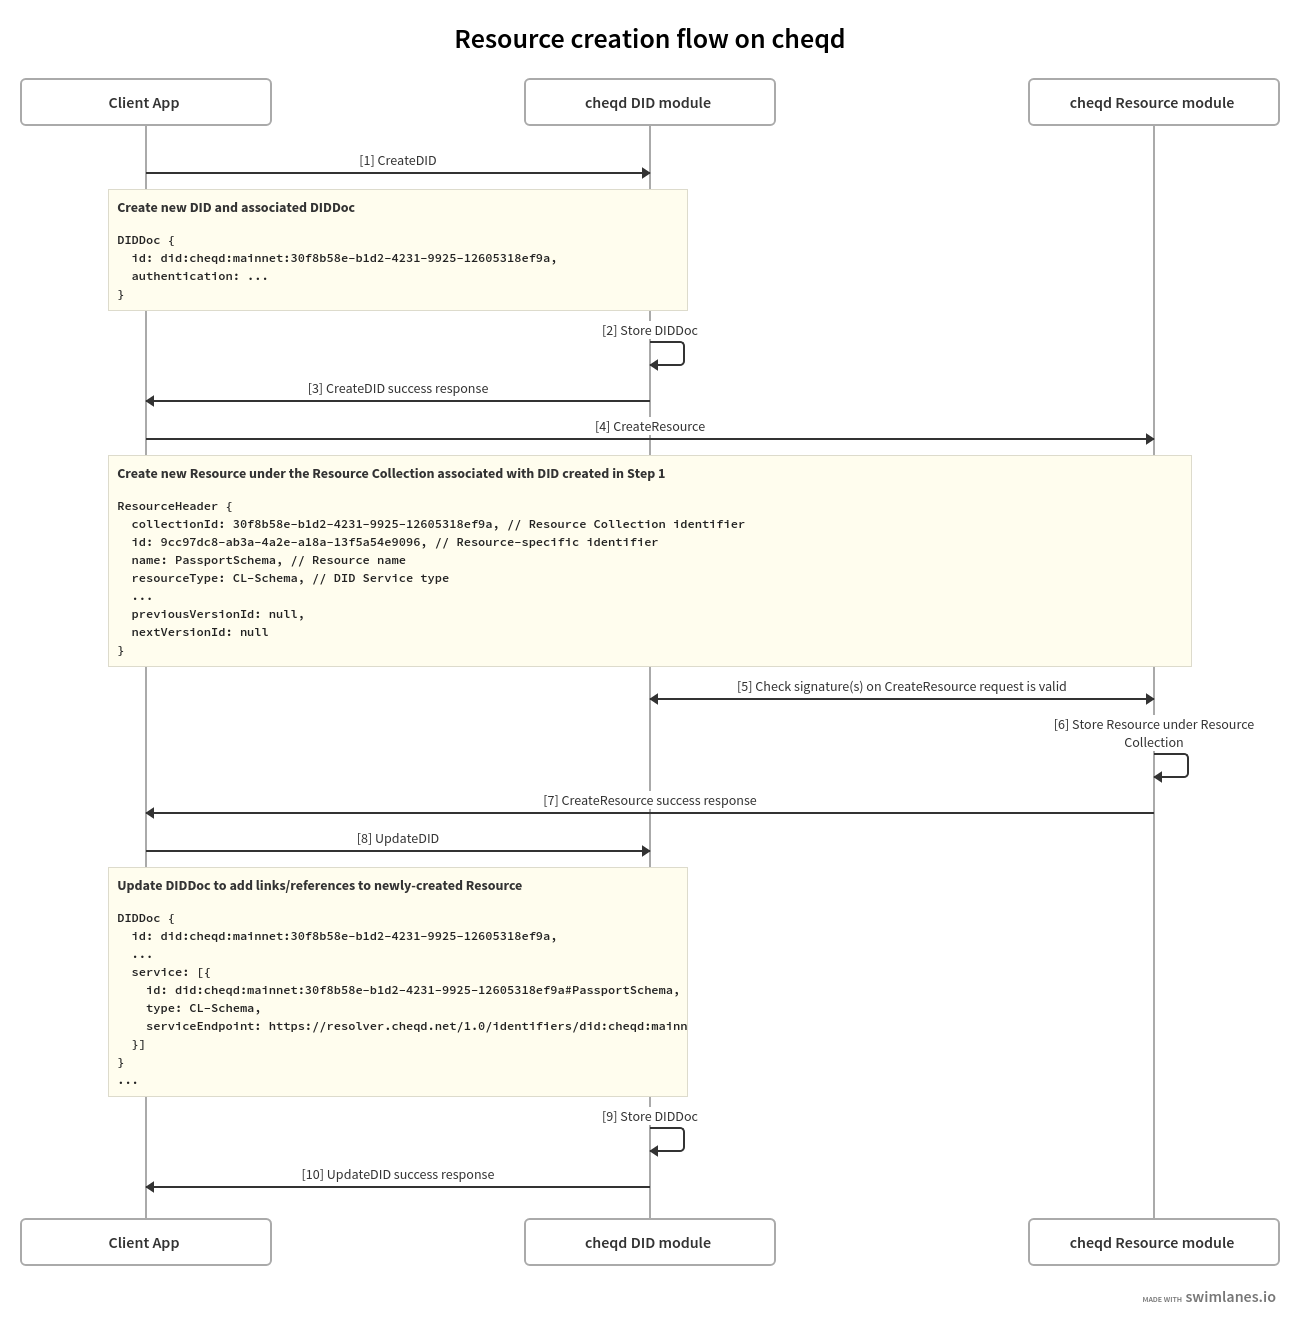
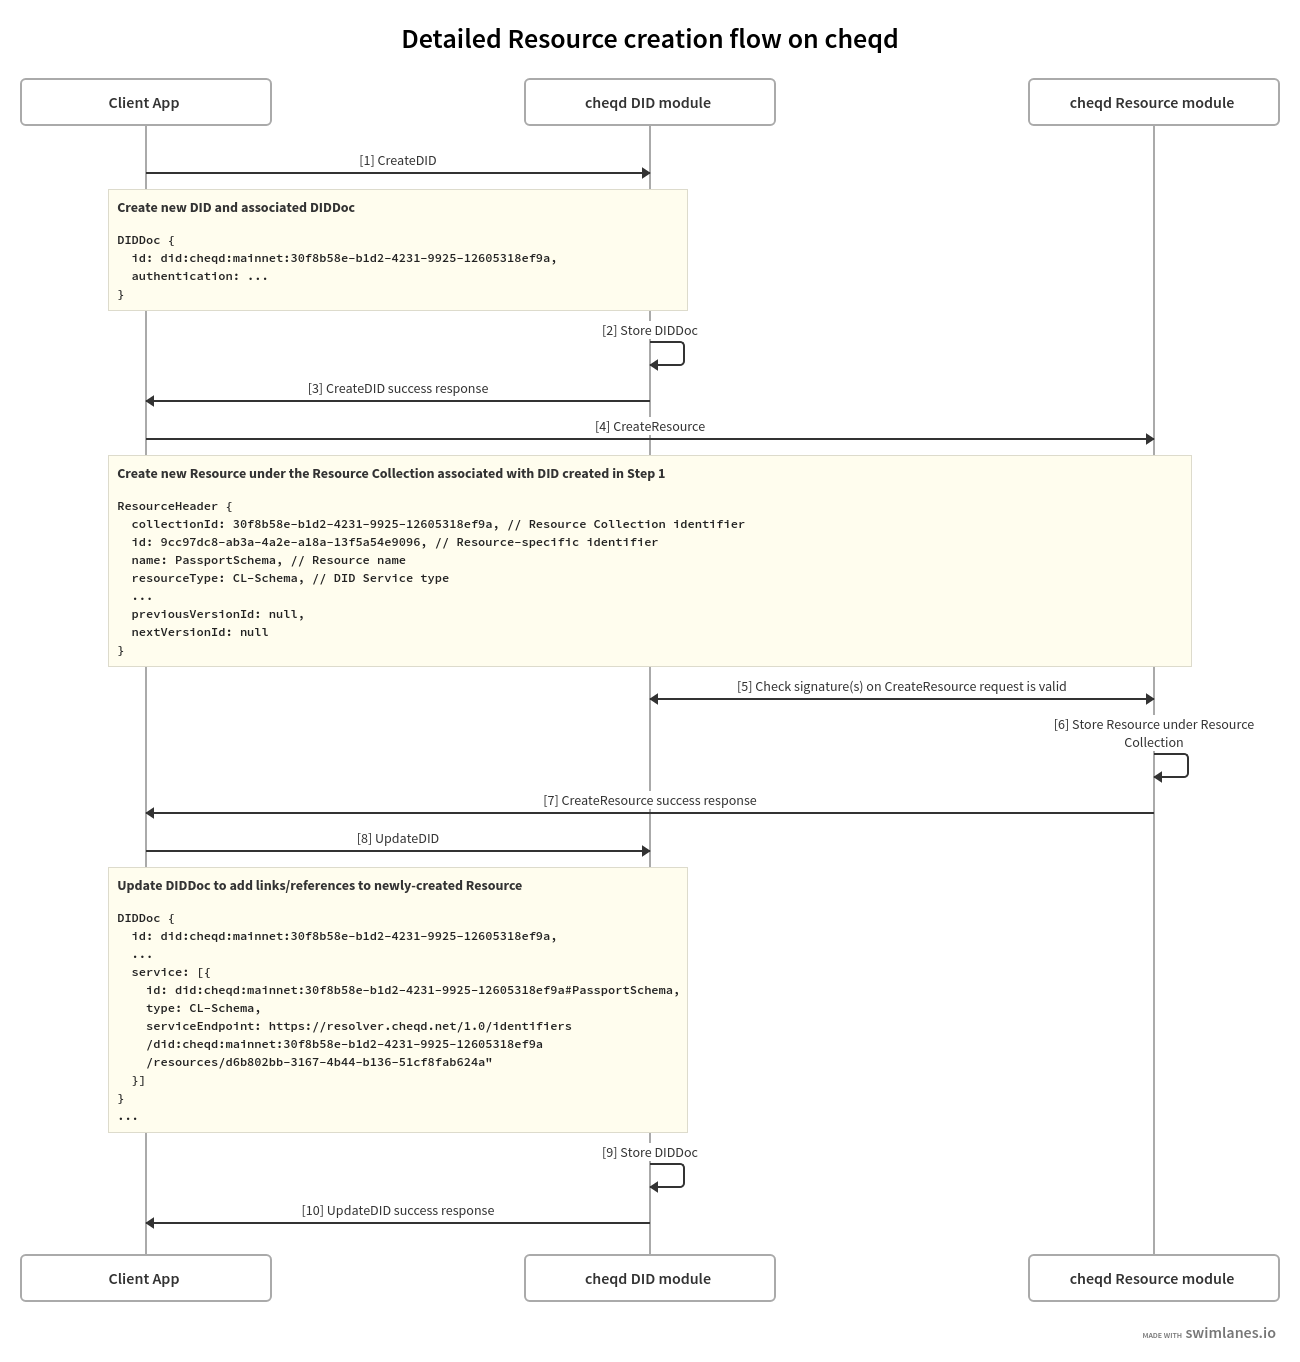
Switched diagrams to Swimlanes.io versions

diff --git a/architecture/adr-list/adr-008-ledger-resources.md b/architecture/adr-list/adr-008-ledger-resources.md
@@ -98,15 +98,17 @@ We took the following design principles into consideration, along with an explan
 Resources on cheqd ledger are collated under *Resource Collections*, which is defined as a list of resources linked to and controlled using a DID Document ("DIDDoc").
 
 ![Simplified on-ledger Resource creation flow on cheqd network](../../.gitbook/assets/adr008-resource-flow-simplified.png)
-*Figure 4: Overview of Resource and Resource Collection creation (editable version on Swimlanes.io)*
+*Figure 4: Overview of Resource and Resource Collection creation ([editable version](https://swimlanes.io/u/UhhnSPK69?rev=4))*
 
 To create a new Resource, a client application first needs to create a DID (or use an existing DID) along with its associated DIDDoc. This *resource-linked DID* is the lowest, direct level of create/update/deactivate operation control that exists.
 
-Individual Resources are uniquely identified by a common *Resource Name* that is meant to remain consistent across versions.
+Individual Resources are uniquely identified by a common *Resource Name* that is meant to remain consistent across versions. The specific *version number* of a Resource is described using the *Resource ID*, which is a [Universally-Unique Identifier (UUID)](https://en.wikipedia.org/wiki/Universally_unique_identifier). Since UUIDs can be generated by *any* compatible software library, client applications are able to define this version number independent of the cheqd ledger. (This same technique and rationale is described in [ADR-002: cheqd DID method](adr-002-cheqd-did-method.md)).
+
+This allows a *specific* Resource version to be referenced in a Verifiable Credential, as well as allowing client applications to query historical/updated Resource versions along with metadata that describes how the Resource evolved within a Resource Collection.
 
 ### Discoverability via DIDDoc Services
 
-Once a Resource has been created under a Resource Collection, the DIDDoc can be updated to provide a link to access it.
+Once a Resource has been created under a Resource Collection, the linked DIDDoc can be updated to provide a link to access it.
 
 Instead of creating a new top-level section within a DIDDoc (theoretically allowed under the W3C DID Core specification), we chose to use the *Services* section to define Resource links.
 
@@ -115,24 +117,23 @@ The rationale for linking to Resources in this manner, instead of creating a new
 1. Client applications capable of doing [DID Resolution](https://w3c.github.io/did-core/#resolution) may have strong architectural assumptions to *only* expect the default DID Core specification sections in a response. We considered the possibility that such applications might (incorrectly) reject the entire DIDDoc as malformed, or crash in the process of trying to parse the DIDDoc.
 2. On the other hand, [the *Services* section in a DIDDoc](https://w3c.github.io/did-core/#services) is designed to be flexible and extensible by design. New DID Service types can be registered through [DID Specification Registries](https://www.w3.org/TR/did-spec-registries/) by anyone.
 3. In practice, we noted that client applications capable of DID Resolution will gracefully fail/ignore unknown Service types. Client applications that *do* understand a particular Service type can continue parsing/resolving content they are designed to handle.
-4. 8. **Linked Resources through DIDDoc de-referencing**: DIDDocs can reference other DIDDocs, such as when the [DID Controller](https://w3c.github.io/did-core/#did-controller) in one DIDDoc is specified as a [Verification Method](https://w3c.github.io/did-core/#verification-methods) in another DIDDoc. These links can be traversed using [DID URL dereferencing](https://w3c-ccg.github.io/did-resolution/#dereferencing).
-   1. Extending this idea, Resources linked to multiple Resource Collections (with different DID unique identifiers) can be referenced from one or more DIDDocs. For example, the same Schema can be re-used 
-9. **Version control**: Historical versions of Resources can always be accessed by traversing forwards/backwards in the Resource Collection.
-10. **Multi-party control on Resource Collection updates**: DIDDocs can have multiple controllers specified in them. In the normal process of updating a DIDDoc with multiple controllers, rules can be defined by client applications and/or the ledger on whether all controllers sign an update, or whether an *m-of-n* threshold needs to be applied. (Currently, the cheqd ledger requires all controllers to sign off on updates.)
-11. **Keys are not linked to on-ledger accounts**: Since the cheqd ledger does not co-relate the on-ledger cheqd/Cosmos accounts to keys that control DIDDocs, this provides another layer of access control by allowing DIDDoc controllers to rotate keys, if required.
+4. DIDDocs can reference other DIDDocs, such as when the [DID Controller](https://w3c.github.io/did-core/#did-controller) in one DIDDoc is specified as a [Verification Method](https://w3c.github.io/did-core/#verification-methods) in another DIDDoc. These links can be traversed using [DID URL dereferencing](https://w3c-ccg.github.io/did-resolution/#dereferencing).
+5. Historical versions of Resources can always be accessed by traversing forwards/backwards in the Resource Collection by checking if a particular Service ID has old/new versions.
+6. Multi-party control on Resource Collection updates is possible, since DIDs with multiple controllers specified in them *already* handle this scenario. In the normal process of updating a DIDDoc with multiple controllers, rules can be defined by client applications and/or the ledger on whether all controllers sign an update, or whether an *m-of-n* threshold needs to be applied. (Currently, the cheqd ledger requires all controllers to sign off on updates.)
+7. Since the [cheqd ledger does not co-relate the on-ledger cheqd/Cosmos accounts to keys that control DIDDocs](adr-003-cli-tools.md), this provides another layer of access control by allowing DIDDoc controllers to rotate keys, if required.
 
 ### Creating a new Resource within a Resource Collection
 
 To create a new Resource, a client application first needs to create a DID (or use an existing DID) along with its associated DIDDoc. This *resource-linked DID* is the lowest, direct level of create/update/deactivate operation control that exits.
 
-![Resource Creation Flow](../../assets/adr008-identity-resources-flow.png)
-*Figure 1: Resource creation flow on cheqd*
+![Resource Creation Flow](../../.gitbook/assets/adr008-resource-flow.png)
+*Figure 5: Detailed sequence diagram of Resource creation on cheqd ([editable version](https://swimlanes.io/u/hXD1jdxYu?rev=4))*
 
-Once a resource
+Resources must be under the maximum block size restrictions to be able to fit into a transaction. Currently this is [estimated to be ~190 KB on cheqd mainnet, based on the ~200 KB block size limit](adr-005-genesis-parameters.md) plus additional headroom for metadata that needs to be described in the `ResourceHeader`.
 
 #### Resource Header
 
-Each request
+Each request to create a Resource *must* provide the following parameters, supplied by the client application:
 
 * **Collection ID: UUID ➝** (did:cheqd:...:)**`UUID` (supplied client-side)**
 * **ID: UUID ➝ specific to resource, also effectively a version number (supplied client-side)**
@@ -140,6 +141,9 @@ Each request
 * **ResourceType (supplied client-side)** Possible values:
   * `CL-Schema`
   * `JSONSchema2020`
+
+In addition to the above client-provided parameters, the ledger-side code will populate the following additional header fields (for properly-authenticated requests):
+
 * **MimeType: (`application/json`/`image`/`application/octet-stream`/`text/plain`) (supplied client-side)** Possible values:
   * `application/json`
   * `application/octet-stream`

diff --git a/architecture/adr-list/README.md b/architecture/adr-list/README.md
@@ -9,7 +9,7 @@ description: >-
 ## Accepted
 
 1. [ADR 001: **Payment mechanism for issuing credentials**](adr-001-payment-mechanism-for-issuing-credentials.md)
-2. [ADR 002: **cheqd DID method, identity entities, and transactions**](adr-002-cheqd-did-method.md)
+2. [ADR 002: **cheqd DID method**](adr-002-cheqd-did-method.md)
 3. [ADR 003: **Command Line Interface (CLI) tools**](adr-003-cli-tools.md)
 4. [ADR 004: **Token fractions**](adr-004-token-fractions.md)
 5. [ADR 005: **Genesis parameters**](adr-005-genesis-parameters.md)

diff --git a/architecture/adr-list/adr-002-cheqd-did-method.md b/architecture/adr-list/adr-002-cheqd-did-method.md
@@ -1,4 +1,4 @@
-# ADR 002: cheqd DID method, identity entities, and transactions
+# ADR 002: cheqd DID method
 
 ## Status
 
